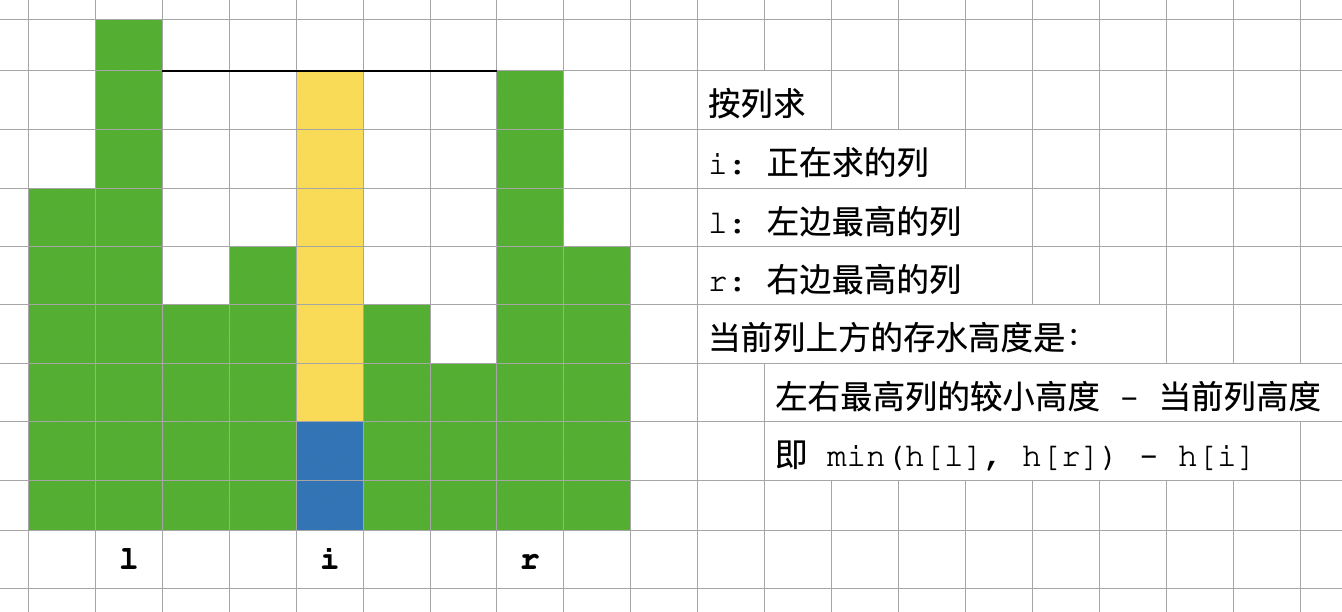
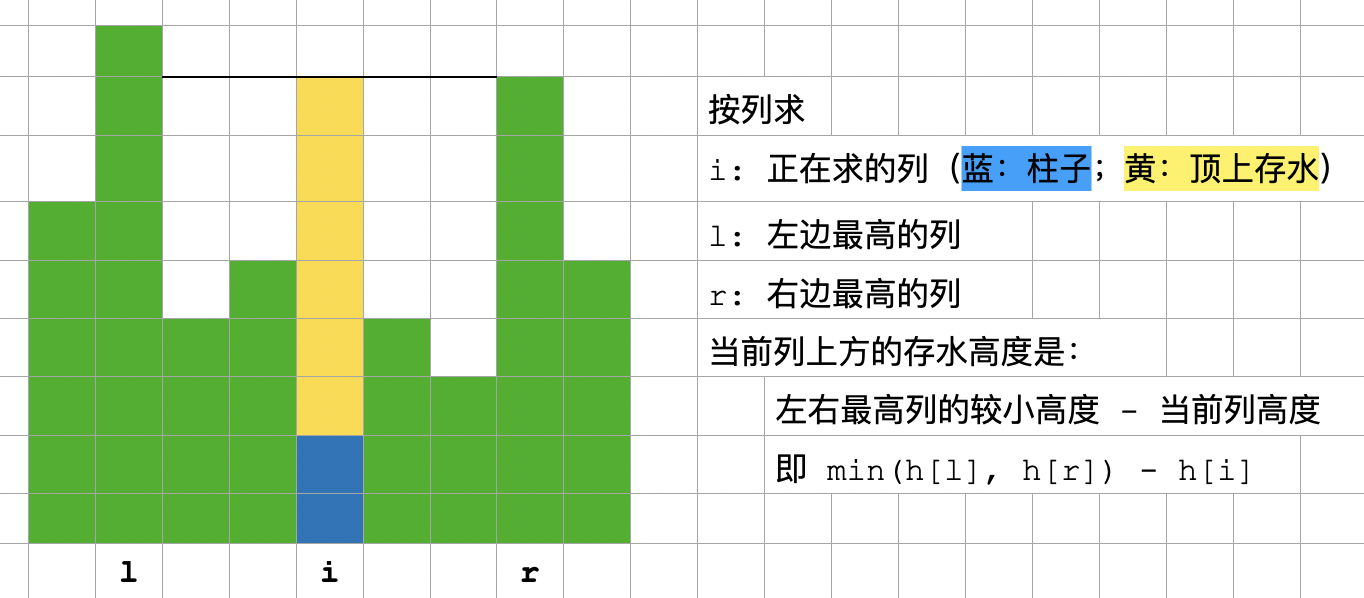
monotonic stack, trapping rain water, updated almost finally

diff --git a/monotonic-stack-queue/code/trapping-rain-leet-42-vertically-12-perfect.cpp b/monotonic-stack-queue/code/trapping-rain-leet-42-vertically-12-perfect.cpp
@@ -1,28 +1,31 @@
-    // 受上个思路启发，我自行想出此思路，感觉很妙。也算思路 3 吧
+#include <vector>
+using namespace std;
+
+// 受 https://mp.weixin.qq.com/s/XyiYcDwEv3VW5Zs-WmRbDQ 启发，但是我自行想出，感觉很妙。可能是最佳解法。
     int trap(vector<int>& height) {
         int n = height.size();
-        int maxh = 0;
+        int maxh = 0; // 全局最高
         for (int i = 0; i < n; i++) {
             maxh = max(maxh, height[i]);
         }
 
         int sum = 0;
-        int mh = 0;
+        int mh = 0; // 到目前为止，最高
         int i;
         for (i = 0; i < n && height[i] < maxh; i++) {
             mh = max(mh, height[i]);
             sum += (mh - height[i]) * 1;
-        }
+        } // 以上遍历左部分
 
         int l = i; // l: 从左边数，第一个 maxh 的位置
         mh = 0;
         for (i = n - 1; i > l && height[i] < maxh; i--) {
             mh = max(mh, height[i]);
             sum += (mh - height[i]) * 1;
-        }
+        } // 以上遍历右部分
         int r = i; // r: 从右边数，第一个 maxh 的位置
         for (i = l + 1; i <= r - 1; i++) {
             sum += (maxh - height[i]) * 1;
-        }
+        } // 以上遍历中间部分
         return sum;
     }

diff --git a/monotonic-stack-queue/code/trapping-rain-leet-42-horizonally-02-mono-stack-single-pass.java b/monotonic-stack-queue/code/trapping-rain-leet-42-horizonally-02-mono-stack-single-pass.java
@@ -16,8 +16,8 @@ class Solution {
         int ans = 0;
         Stack<Integer> st = new Stack<>();
         for (int i = 0; i < height.length; i++) {
-            while (!st.isEmpty() && height[i] >= height[st.peek()]) { // 栈内是否有相等的：均可。这里用 >= 或 > 均可
-                int i0 = st.peek();
+            while (!st.isEmpty() && height[i] > height[st.peek()]) { // 栈内是否有相等的：均可。这里用 >= 或 > 均可
+                int i0 = st.peek(); // 调试打 log 用
                 int h0 = height[st.pop()]; // top, 凹槽底部
                 System.out.printf("stack poped: idx: %d, val:%d%n", i0, h0);
                 if (st.isEmpty()) {

diff --git a/monotonic-stack-queue/code/trapping-rain-leet-42-vertically-11.cpp b/monotonic-stack-queue/code/trapping-rain-leet-42-vertically-11.cpp
@@ -1,5 +1,9 @@
-    // https://mp.weixin.qq.com/s/XyiYcDwEv3VW5Zs-WmRbDQ 的方法4，整个的思路 3
-    int trap_sol3(vector<int>& height) {
+#include <vector>
+using namespace std;
+
+// https://mp.weixin.qq.com/s/XyiYcDwEv3VW5Zs-WmRbDQ 的方法4。把问题搞复杂了。
+
+    int trap(vector<int>& height) {
         int n = height.size();
 
         int sum = 0, maxh = 0;

diff --git a/monotonic-stack-queue/code/trapping-rain-leet-42-vertically-02-preprocess.cpp b/monotonic-stack-queue/code/trapping-rain-leet-42-vertically-02-preprocess.cpp
@@ -1,3 +1,6 @@
+#include <vector>
+using namespace std;
+
     int trap_working(vector<int>& height) {
         int n = height.size();
         if (n == 0) {

diff --git a/monotonic-stack-queue/leet-42-接雨水多种方法.md b/monotonic-stack-queue/leet-42-接雨水多种方法.md
@@ -1,3 +1,8 @@
+# [leetcode 42. 接雨水](https://leetcode.cn/problems/trapping-rain-water/)
+
+references:
+- [四种方法](https://mp.weixin.qq.com/s/XyiYcDwEv3VW5Zs-WmRbDQ)
+- [水平方向解法的一种理解](https://mp.weixin.qq.com/s/epYmfWy5BEOYOxF8kKj9Gw)
 
 # solution 1. 按列（竖直方向），每个柱子顶上竖直方向能存多少水。
 
@@ -7,105 +12,117 @@
 
 - 最基本的方法，简单遍历。超时。[trapping-rain-leet-42-vertically-01-naive-tle.cpp](code/trapping-rain-leet-42-vertically-01-naive-tle.cpp)
 - 优化一下，预处理。[trapping-rain-leet-42-vertically-02-preprocess.cpp](code/trapping-rain-leet-42-vertically-02-preprocess.cpp)
-- 变形的单调栈，求 prev greatest 和 next greatest（注意是 greatest 不是 greater）。[trapping-rain-leet-42-vertically-03-mono-stack.cpp](code/trapping-rain-leet-42-vertically-03-mono-stack.cpp)
+- 变形的单调栈，求 prev greatest 和 next greatest（注意是 greatest 不是 greater）。但有些硬套公式、为了使用单调栈而使用的感觉。[trapping-rain-leet-42-vertically-03-mono-stack.cpp](code/trapping-rain-leet-42-vertically-03-mono-stack.cpp)
 
-# solution 2. 按列。
-- [trapping-rain-leet-42-vertically-11.cpp](trapping-rain-leet-42-vertically-11.cpp)
-- 所有解法中的最佳 [trapping-rain-leet-42-vertically-12-perfect.cpp](code/trapping-rain-leet-42-vertically-12-perfect.cpp)
+# solution 2. 与 1 基本相同，按列（竖直方向），每个柱子顶上竖直方向能存多少水。但求左最高、右最高的方法不同。
 
-# solution 3. 按行
+先找出最高的柱子高度 `maxh`。最高的可能有多个，其中最左边（第一个）的下标为 l，最右边（最后一个）的下标为 r。
 
-每根柱子，与其 previous greater 和 next greater，构成一个凹槽，水平方向，能存多少水。
+整个序列可分成三部分：
+1. 左：l 左边的（含不含 l 均可）
+2. 右：r 右边的（含不含 r 均可）
+3. 中：l、r 中间的（含不含 l、r 均可）。如果最高的 maxh 只有一个，则不存在这一部分。但不影响逻辑和计算结果。
 
-两个方向都是严格 greater，一遍遍历不能得到，得两遍。运行时，发现不能处理途中第4、6个的情况。4、6重复计算了。
-![failure](pics/trap-rain-failure.png)
+然后依次遍历这三个部分。
+
+- 正序，从下标 0 开始，遍历“左”部分，记录“到目前为止的最大柱子高度” 为 `mh`。对每根柱子而言，它左边最高的柱子就是 `mh`，右边最高柱子就是 `maxh`。每个柱子顶上竖直方向能存的水，就是 `min(maxh, mh) - h[i]`，也就是 `mh - h[i]`。如果自己恰好就是当前最高的，则自己顶上竖直方向不能存水，`mh - h[i]` 也恰好是 0。
+- 逆序，从下标 n-1 开始，遍历“右”部分，方法类似。
+- “中”部分，左右最高均为 `maxh`，柱子顶上竖直方向能存的水是 `maxh - h[i]`。
+
+<font color="green">这个思路，应该是所有思路中的最佳。</font>代码 [trapping-rain-leet-42-vertically-12-perfect.cpp](code/trapping-rain-leet-42-vertically-12-perfect.cpp)。注意，开始遍历一遍求 maxh 的过程中，没有记录 l、r 的位置，是在后面遍历左、右两部分时，跟 maxh 比较而确定的。当然也可以在求 maxh 时就记录。
 
 ```cpp
-// 不能处理4、6重复计算的情况。
     int trap(vector<int>& height) {
         int n = height.size();
-        vector<int> ng(n, -1), pg(n);
-        stack<int> st; // 单调下降栈，存下标
+        int maxh = 0; // 全局最高
         for (int i = 0; i < n; i++) {
-            while (!st.empty() && height[i] > height[st.top()]) {
-                ng[st.top()] = i;
-                st.pop();
-            }
-            st.push(i);
+            maxh = max(maxh, height[i]);
         }
-        stack<int> st2;
-        for (int i = 0; i < n; i++) {
-            while (!st2.empty() && height[i] >= height[st2.top()]) {
-                st2.pop();
-            }
-            pg[i] = st2.empty() ? -1 : st2.top();
-            st2.push(i);
-        }
-        int ans = 0;
-        for (int i = 1; i <= n - 1 - 1; i++) { // 直接去掉两边
-            if (pg[i] >= 0 && ng[i] >= 0) {
-                int h = min(height[pg[i]], height[ng[i]]) - height[i];
-                int w = ng[i] - pg[i] - 1;
-                // printf("%d: %d x %d\n", i, h, w);
-                ans += h * w;
-            }
-        }
-        return ans;
+
+        int sum = 0;
+        int mh = 0; // 到目前为止，最高
+        int i;
+        for (i = 0; i < n && height[i] < maxh; i++) {
+            mh = max(mh, height[i]);
+            sum += (mh - height[i]) * 1;
+        } // 以上遍历左部分
+
+        int l = i; // l: 从左边数，第一个 maxh 的位置
+        mh = 0;
+        for (i = n - 1; i > l && height[i] < maxh; i--) {
+            mh = max(mh, height[i]);
+            sum += (mh - height[i]) * 1;
+        } // 以上遍历右部分
+        int r = i; // r: 从右边数，第一个 maxh 的位置
+        for (i = l + 1; i <= r - 1; i++) {
+            sum += (maxh - height[i]) * 1;
+        } // 以上遍历中间部分
+        return sum;
     }
 ```
 
+## 类似思路
+
+来自 https://mp.weixin.qq.com/s/XyiYcDwEv3VW5Zs-WmRbDQ 方法 4，但把简单问题复杂化了。
+- [trapping-rain-leet-42-vertically-11.cpp](code/trapping-rain-leet-42-vertically-11.cpp)
+
+# solution 3. 按行
+
+## 直观、但错误的解法
+
+每根柱子，与其 previous greater 和 next greater，构成一个凹槽，水平方向，分层（见图），能存多少水。
+
+水平方向为什么要分层？因为栈内相邻两元素之间的柱子已经被弹出去了，无法得到他们的信息，只能得到相邻两个元素构成的“水平层”。画图有助理解。
+
+两个方向都是严格 greater，一遍遍历不能得到，得两遍。运行时，发现不能处理途中第 4、6 个的情况。4、6 重复计算了。
+![failure](pics/trap-rain-failure.png)
+
+代码：[trapping-rain-leet-42-horizonally-01-mono-stack-2pass-wrong.cpp](code/trapping-rain-leet-42-horizonally-01-mono-stack-2pass-wrong.cpp)
+
 解决方法：貌似得搞个 set 去重？感觉不优雅。<font color="red">to think more</font>
 
-优化：考虑到 “top 的 previous greater 就是 top-1”这个性质。
-每次 new 来，
-若 new > top，则 top-1, top, new 构成一个凹槽；若 new > top 多个，则每次弹出 top 后，新的 top-1, top, new 都构成凹槽。弹完 top 后，new 入栈。
-否则，这个 new 不构成凹槽，直接入栈即可。
-这样，以 new 为抓手，依次遍历所有凹槽，不重复，不遗漏。就是官方解法。
+## 正确、但不直观的解法，也是 leetcode 官方解法
 
-单调下降栈。
-直观：高-低-高，才能盛水。前面的“高-低”是栈内，说明要单调下降，后面的“高”是新来的、尚未入栈的。
-栈顶有等高元素怎么办？等会再看。
-每来一根新柱子，就看它是否能构成一个“高-低-高”结构。
-若新柱子比 top 低或相等，无法盛水。直接push进栈。（画图可见）也解决了上面的问题：相等怎么办？
+优化：考虑到 “`top` 的 previous greater 就是 `top-1`” 这个性质。
 
-若新柱子比 top 高（while判断时用 h[i] > h[st.top])，则 top-1, top, new 三者构成下凹，可盛水。
-容量公式，见官方题解。注意，盛水量是水平分层计算的，自己画图可直观理解。
+单调下降栈。直观：高-低-高，才能盛水。前面的“高-低”是栈内，说明要单调下降，后面的“高”是新来的、尚未入栈的。
 
-（2023.12.17 感悟：按这个思路，主要看栈里是否允许相同值的，而不是从 next-greater 或 next-greater-or-equal 的角度出发。经观察，栈里是否允许相同值，都可以；若有相同值，有时会出现 h = 0 的情况，对结果无影响。
+每次 `new` 来，就看它是否能构成一个“高-低-高”结构。
 
-但总感觉这个思路不是太直观。）
+- 若 `new > top`，新柱子比 `top` 高，则 `top-1`, `top`, `new` 构成一个以 `top` 为底的凹槽；若 `new > top 多个`，则每次弹出 `top` 后，新的 `top-1`, `top`, `new` 都构成凹槽。弹完所有 `top` 后，`new` 入栈。
+- 否则，新柱子比 `top` 低或相等，这个 `new` 不构成凹槽，直接入栈即可。
+
+这样，以 `new` 为抓手，依次遍历所有凹槽，不重复，不遗漏。就是官方解法。
+
+<font color="green">这个思路，不是用栈求每个元素的 next greater，而是用栈自身的元素做计算。</font>那么，经典问题：while 循环条件中，`h[i] > h[st.top()]` 这里用 `>=` 还是 `>`？对应问题：栈应该是严格单调的，还是不严格单调的？（因为这个场景我们关心的不是 next greater，所以不说对应“应该求 next-greater 或 next-greater-or-equal”的问题。）
+
+- 若用 `>=`，栈内不会有相同元素，栈是严格单调的，但构成的凹槽里，`new` 和 `top` 可能相同。
+- 若用 `>`，栈内可能有相同元素，栈不是严格单调的。构成的凹槽里，`top` 和 `top-1` 可能相同。
+
+不过，这两种相同的情况，对应的 h 都为 0，对所求面积都没有影响。
+
+<font color="green">所以，while 循环条件中，`h[i] > h[st.top()]` 这里用 `>=` 或 `>` 都可以。</font>
+
+<font color="red">但总感觉这个思路不是太直观。</font>
 
 代码：[trapping-rain-leet-42-horizonally-02-mono-stack-single-pass.java](code/trapping-rain-leet-42-horizonally-02-mono-stack-single-pass.java)
 
 ```java
     public int trap(int[] height) {
-        Stack<Integer> st = new Stack<>();
-        int n = height.length;
-        int[] lg = new int[n]; // left greatest
-        // 正序遍历，求 previous greatest，就是 left greatest
-        for (int i = 0; i < n; i++) {
-            while (!st.isEmpty() && height[i] >= height[st.peek()]) {
-                st.pop();
-            }
-            lg[i] = st.empty() ? -1 : (lg[st.peek()] == -1 ? st.peek() : lg[st.peek()]);
-            st.push(i);
-        }
-
-        st.clear();
-        int[] rg = new int[n]; // right greatest
-        // 逆序遍历，求 previous greatest, 就是 right greatest
-        for (int i = n - 1; i >= 0; i--) {
-            while (!st.isEmpty() && height[i] >= height[st.peek()]) {
-                st.pop();
-            }
-            rg[i] = st.empty() ? -1 : (rg[st.peek()] == -1 ? st.peek() : rg[st.peek()]);
-            st.push(i);
-        }
         int ans = 0;
+        Stack<Integer> st = new Stack<>();
         for (int i = 0; i < height.length; i++) {
-            if (lg[i] != -1 && rg[i] != -1) {
-                ans += Math.min(height[lg[i]], height[rg[i]]) - height[i];
+            while (!st.isEmpty() && height[i] > height[st.peek()]) { // >= 或 > 均可
+                int h0 = height[st.pop()]; // top, 凹槽底部
+                if (st.isEmpty()) {
+                    break;
+                }
+                int left = st.peek(); // top-1, left of top
+                int h = Math.min(height[i], height[left]) - h0;
+                int w = i - left - 1;
+                ans += h * w;
             }
+            st.push(i);
         }
         return ans;
     }
